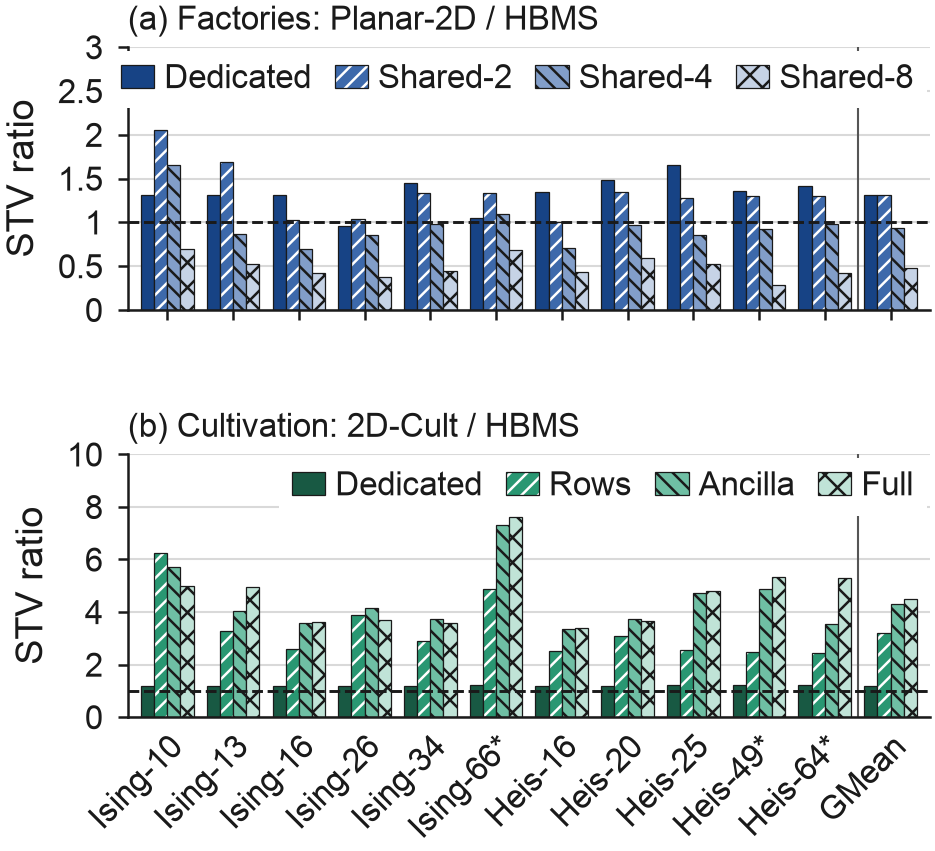
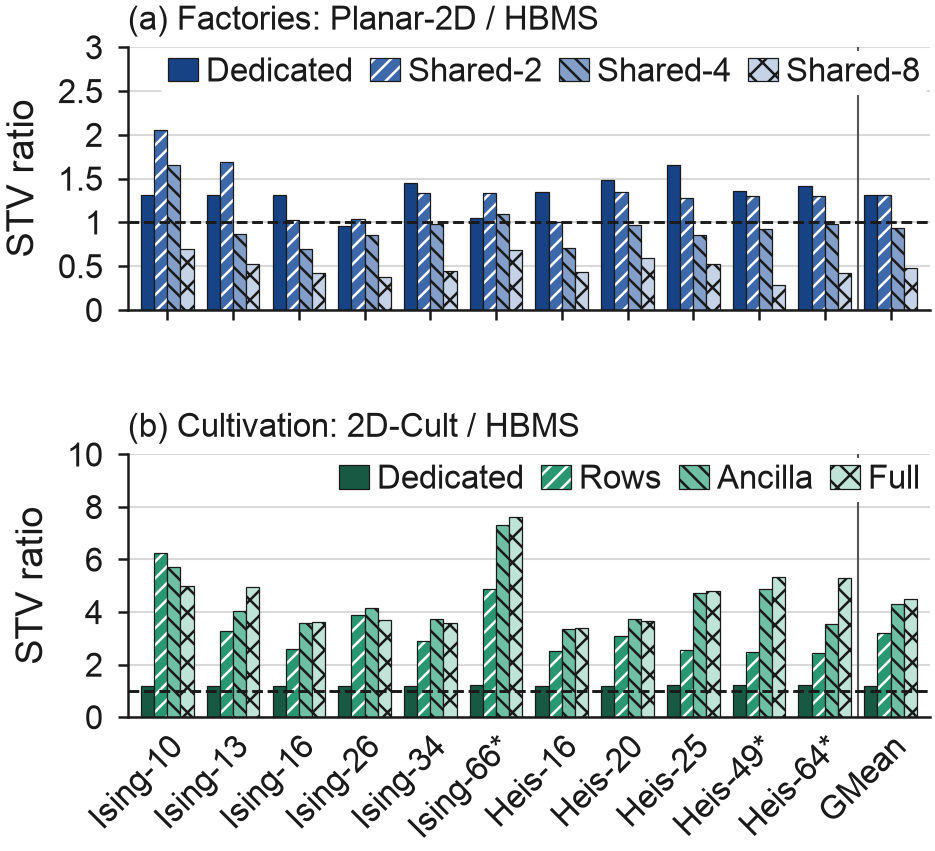
plot_eval.py: eval_stv legends compacted (panel (a) was 0.08 in wider than its axes)

Changed region(s): [[0.1241, 0.0611, 0.9925, 0.1222], [0.3102, 0.5194, 0.9925, 0.611]]

diff --git a/scripts/revision/plot_eval.py b/scripts/revision/plot_eval.py
@@ -103,9 +103,9 @@ def eval_stv(cells, benches, path):
         ax.set_axisbelow(True)
         ax.set_ylabel("STV ratio")
         ax.text(0.0, 1.04, tag, transform=ax.transAxes, fontsize=8, va="bottom", ha="left")
-        ax.legend(loc="upper right", ncol=ncol, handlelength=1.0, columnspacing=0.7,
-                  handletextpad=0.3, borderaxespad=0.1, frameon=True, facecolor="white",
-                  edgecolor="none", framealpha=1)
+        ax.legend(loc="upper right", ncol=ncol, handlelength=0.9, columnspacing=0.5,
+                  handletextpad=0.25, borderaxespad=0.1, borderpad=0.2, frameon=True,
+                  facecolor="white", edgecolor="none", framealpha=1)
     axes[-1].set_xticks(x, names, rotation=45, ha="right", rotation_mode="anchor")
     axes[-1].set_xlim(-0.6, len(names) - 0.4)
     axes[-1].tick_params(axis="x", length=0)
